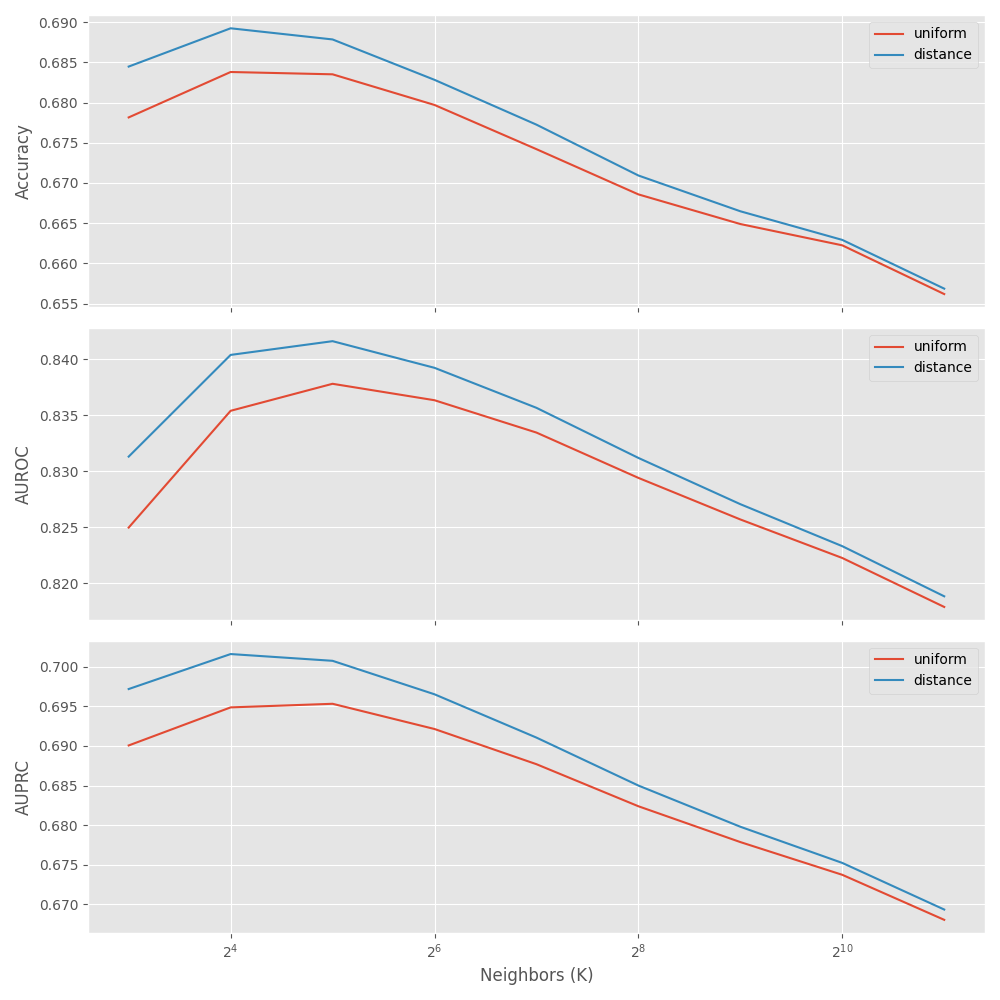
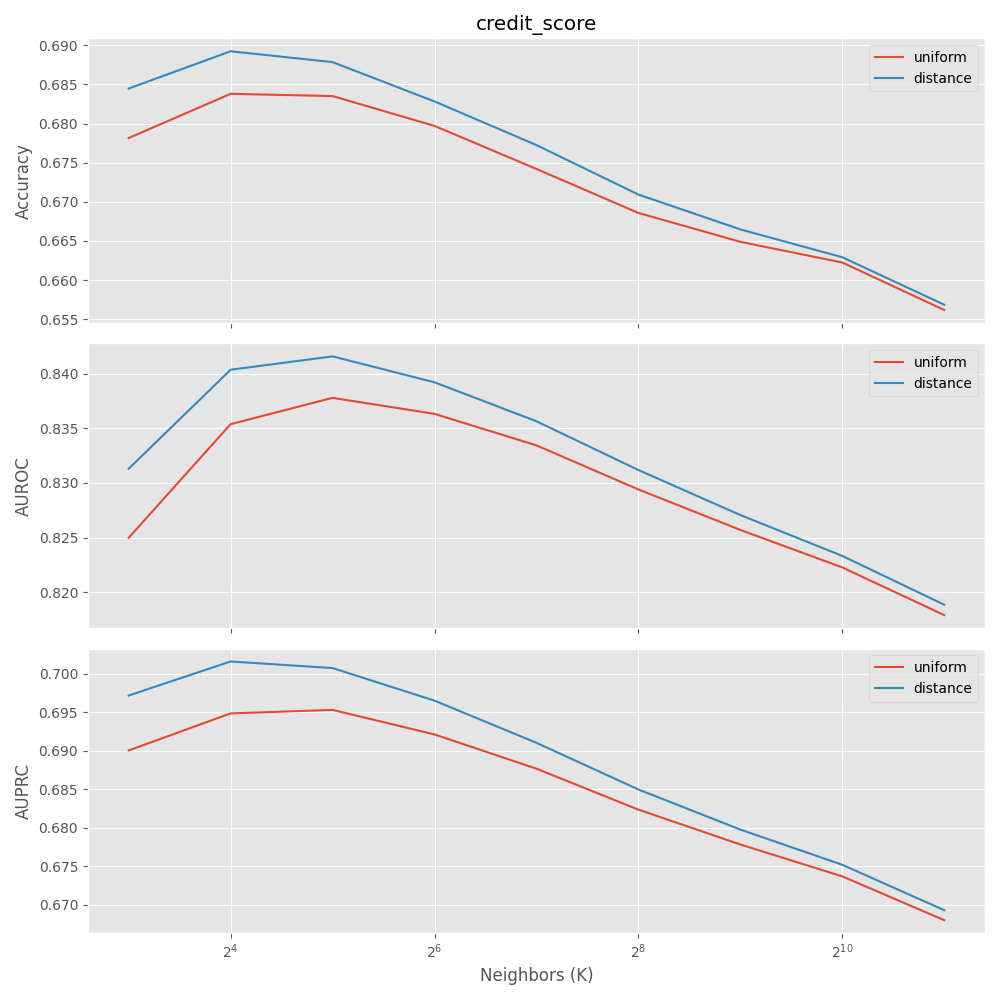
Add dataset title

diff --git a/experiments.py b/experiments.py
@@ -22,10 +22,11 @@ def grid_search(X_train, y_train, model_cls, grid={}, **kwargs):
     return out
 
 
-def plot(df, x, xlabel, grouping, log=True):
+def plot(df, x, xlabel, grouping, dataset, log=True):
     plt.style.use("ggplot")
     fig, ax = plt.subplots(nrows=3, figsize=(10, 10), sharex=True)
     ax[-1].set_xlabel(xlabel)
+    ax[0].set_title(dataset)
 
     for g in df[grouping].unique():
         r1 = df[df[grouping] == g]

diff --git a/knn.py b/knn.py
@@ -17,7 +17,7 @@ def trials(dataset):
             weights=["uniform", "distance"],
         ),
     )
-    fig = plot(readings, "n_neighbors", "Neighbors (K)", "weights")
+    fig = plot(readings, "n_neighbors", "Neighbors (K)", "weights", dataset)
 
     readings.to_csv(f"readings/knn_{dataset}.csv", index=False)
     fig.savefig(f"readings/knn_{dataset}.png")
